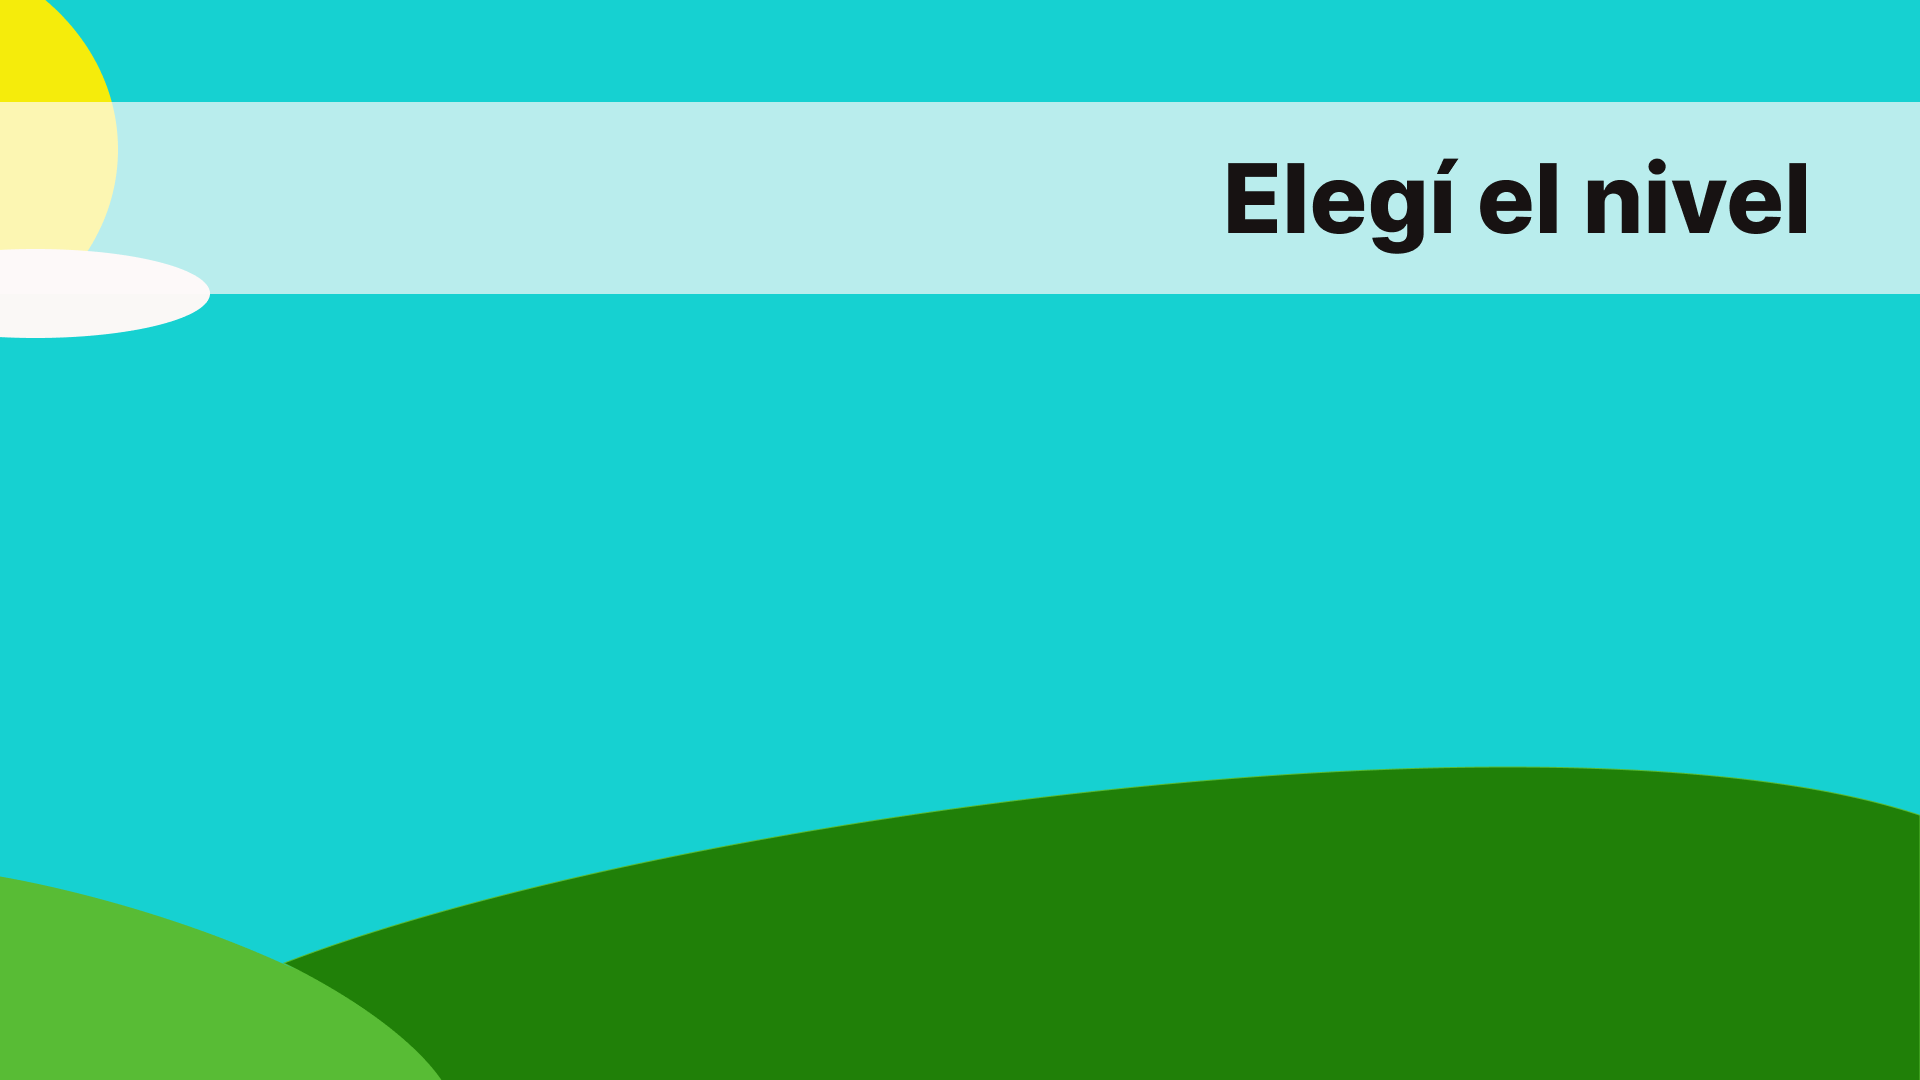
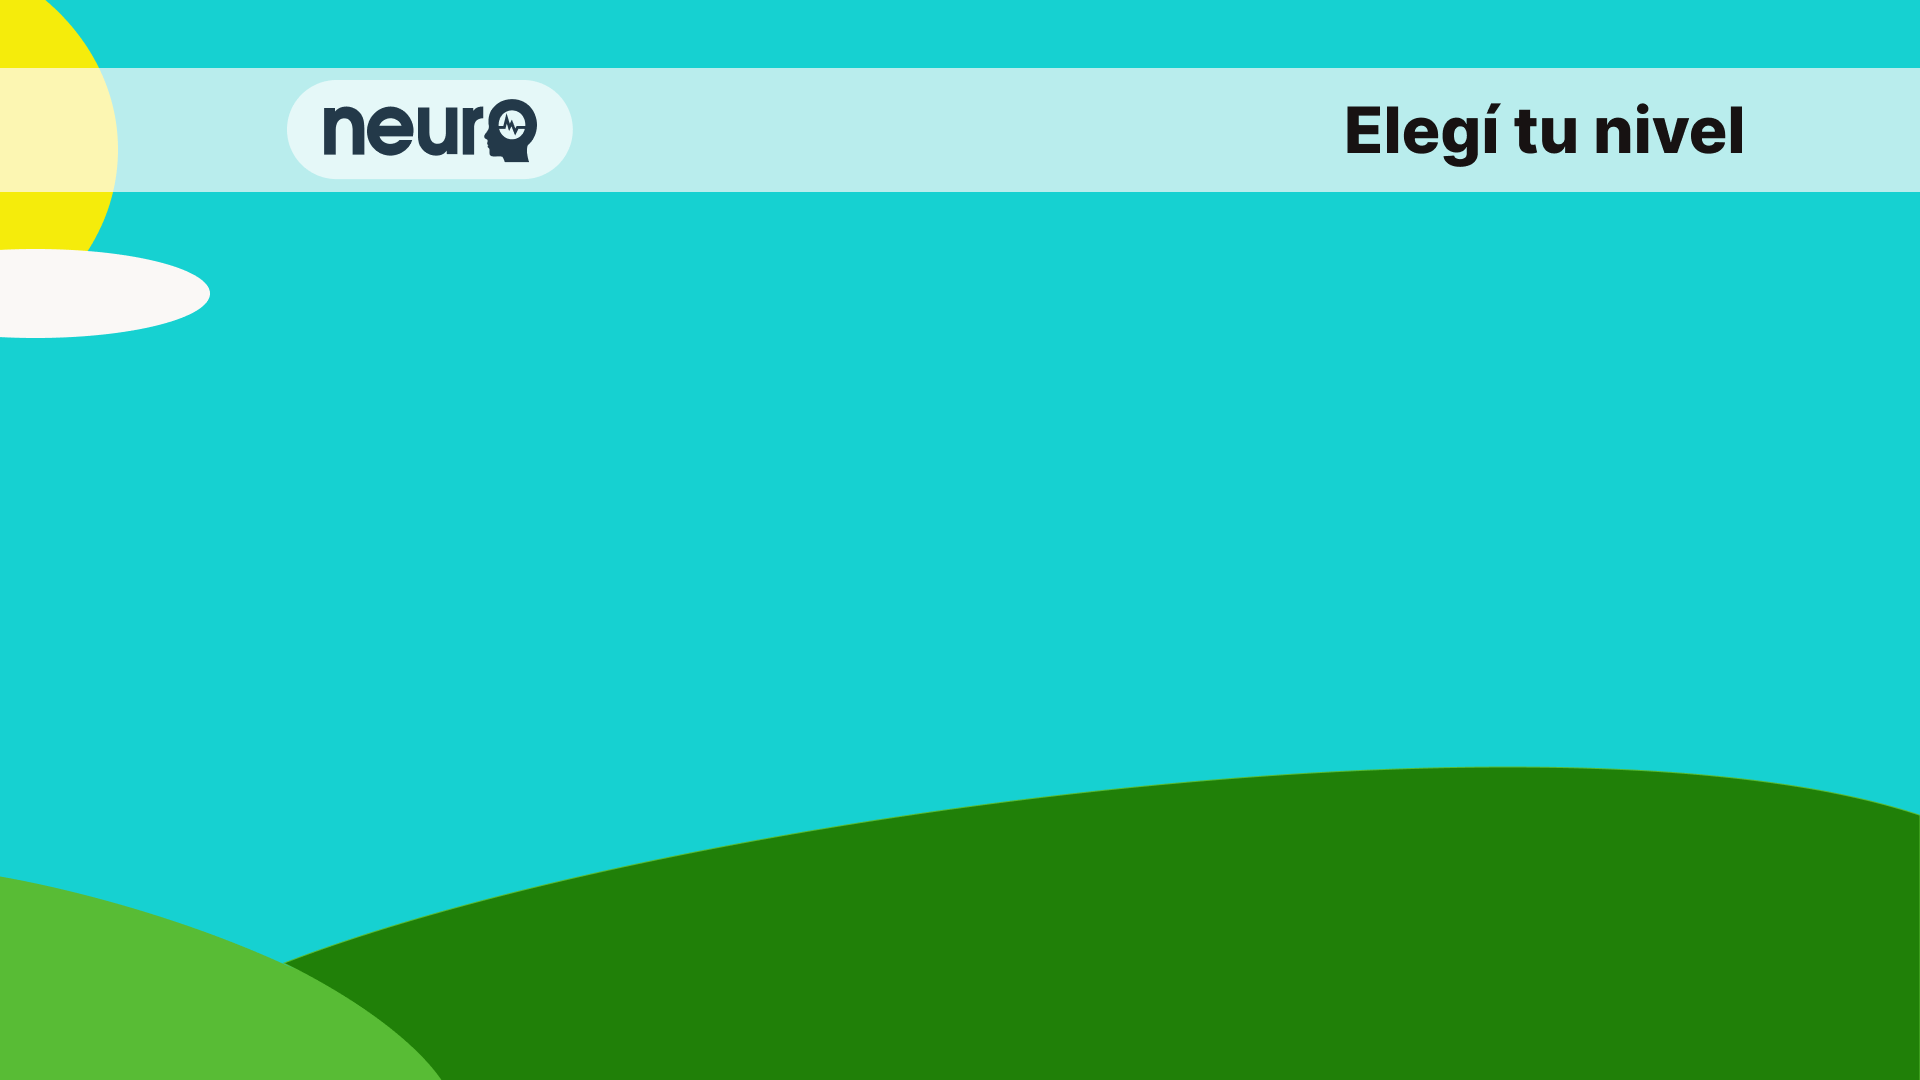
BASTA

Changed region(s): [[0.0, 0.0611, 1.0, 0.275]]

diff --git a/JUEGO 1/expli1.html b/JUEGO 1/expli1.html
@@ -5,24 +5,18 @@
     <meta http-equiv="X-UA-Compatible" content="IE=edge">
     <meta name="viewport" content="width=device-width, initial-scale=1.0">
     <title>Explicación 1</title>
-    <link rel="stylesheet" href="explli1.css">
-    <link rel="stylesheet" href="../general.css">
+    <link rel="stylesheet" href="../generalExpli.css">
 </head>
 <body>
     <div class="todo">
-<header>
-        <a href="../INICIO/menu1.html" class="volver"><img src="../—Pngtree—vector back icon_4190818.png" class="flechar"></a>
-</header>
+<header></header>
     <main>
-        <div class="titulo">
-            <h1>EXPLICACIÓN DEL JUEGO:</h1>
-        </div>
         <div class="video">
-            <video src="C:\Users\49318078\Downloads\istockphoto-1456799686-640_adpp_is.mp4" controls="true" height="400px"></video>
+            <video src="" controls="true" height="400px"></video>
         </div>    
     </main>
         <footer>
-        <a href="../JUEGO 1/niveles1.html" class="volver"><img src="../—Pngtree—vector back icon_4190818.png" class="flechab"></a>
+        <a href="../JUEGO 1/niveles1.html" class="volver"><button></button></a>
     </div>
         </footer>
 </body>

diff --git a/JUEGO 2/expli2.html b/JUEGO 2/expli2.html
@@ -5,14 +5,11 @@
     <meta http-equiv="X-UA-Compatible" content="IE=edge">
     <meta name="viewport" content="width=device-width, initial-scale=1.0">
     <title>Explicación 2</title>
-    <link rel="stylesheet" href="expli2.css">
-    <link rel="stylesheet" href="../general.css">
+    <link rel="stylesheet" href="../generalExpli.css">
 </head>
 <body>
     <div class="todo">
-<header>
-        <a href="../INICIO/menu1.html" class="volver"><img src="../—Pngtree—vector back icon_4190818.png" class="flechar"></a>
-</header>
+<header></header>
     <main>
         <div class="titulo">
             <h1>EXPLICACIÓN DEL JUEGO:</h1>
@@ -22,7 +19,7 @@
         </div>    
     </main>
         <footer>
-        <a href="../JUEGO 2/niveles2.html" class="volver"><img src="../—Pngtree—vector back icon_4190818.png" class="flechab"></a>
+        <a href="../JUEGO 2/niveles2.html" class="volver"><button></button></a>
     </div>
         </footer>
 </body>

diff --git a/JUEGO 3/expli3.html b/JUEGO 3/expli3.html
@@ -5,14 +5,11 @@
     <meta http-equiv="X-UA-Compatible" content="IE=edge">
     <meta name="viewport" content="width=device-width, initial-scale=1.0">
     <title>Explicación 3</title>
-    <link rel="stylesheet" href="expli3.css">
-    <link rel="stylesheet" href="../general.css">
+    <link rel="stylesheet" href="../generalExpli.css">
 </head>
 <body>
     <div class="todo">
-<header>
-        <a href="../INICIO/menu1.html" class="volver"><img src="../—Pngtree—vector back icon_4190818.png" class="flechar"></a>
-</header>
+<header></header>
     <main>
         <div class="titulo">
             <h1>EXPLICACIÓN DEL JUEGO:</h1>
@@ -22,7 +19,7 @@
         </div>    
     </main>
         <footer>
-        <a href="../JUEGO 3/niveles3.html" class="volver"><img src="../—Pngtree—vector back icon_4190818.png" class="flechab"></a>
+        <a href="../JUEGO 3/niveles3.html" class="volver"><button></button></a>
     </div>
         </footer>
 </body>

diff --git a/JUEGO 4/expli4.html b/JUEGO 4/expli4.html
@@ -5,14 +5,11 @@
     <meta http-equiv="X-UA-Compatible" content="IE=edge">
     <meta name="viewport" content="width=device-width, initial-scale=1.0">
     <title>Explicación 4</title>
-    <link rel="stylesheet" href="expli4.css">
-    <link rel="stylesheet" href="../general.css">
+    <link rel="stylesheet" href="../generalExpli.css">
 </head>
 <body>
     <div class="todo">
-<header>
-        <a href="../INICIO/menu1.html" class="volver"><img src="../—Pngtree—vector back icon_4190818.png" class="flechar"></a>
-</header>
+<header></header>
     <main>
         <div class="titulo">
             <h1>EXPLICACIÓN DEL JUEGO:</h1>
@@ -22,7 +19,7 @@
         </div>    
     </main>
         <footer>
-        <a href="../JUEGO 4/cuatro.html" class="volver"><img src="../—Pngtree—vector back icon_4190818.png" class="flechab"></a>
+        <a href="../JUEGO 4/cuatro.html" class="volver"><button></button></a>
     </div>
         </footer>
 </body>

diff --git a/JUEGO 6/expli6.html b/JUEGO 6/expli6.html
@@ -5,14 +5,11 @@
     <meta http-equiv="X-UA-Compatible" content="IE=edge">
     <meta name="viewport" content="width=device-width, initial-scale=1.0">
     <title>Explicación 6</title>
-    <link rel="stylesheet" href="expli6.css">
-    <link rel="stylesheet" href="../general.css">
+    <link rel="stylesheet" href="../generalExpli.css">
 </head>
 <body>
     <div class="todo">
-<header>
-        <a href="../INICIO/menu1.html" class="volver"><img src="../—Pngtree—vector back icon_4190818.png" class="flechar"></a>
-</header>
+<header></header>
     <main>
         <div class="titulo">
             <h1>EXPLICACIÓN DEL JUEGO:</h1>
@@ -22,7 +19,7 @@
         </div>    
     </main>
         <footer>
-        <a href="../JUEGO 6/seis.html" class="volver"><img src="../—Pngtree—vector back icon_4190818.png" class="flechab"></a>
+        <a href="../JUEGO 6/seis.html" class="volver"><button></button></a>
     </div>
         </footer>
 </body>

diff --git a/JUEGO 5/expli5.html b/JUEGO 5/expli5.html
@@ -5,14 +5,11 @@
     <meta http-equiv="X-UA-Compatible" content="IE=edge">
     <meta name="viewport" content="width=device-width, initial-scale=1.0">
     <title>Explicación 5</title>
-    <link rel="stylesheet" href="expli5.css">
-    <link rel="stylesheet" href="../general.css">
+    <link rel="stylesheet" href="../generalExpli.css">
 </head>
 <body>
     <div class="todo">
-<header>
-        <a href="../INICIO/menu1.html" class="volver"><img src="../—Pngtree—vector back icon_4190818.png" class="flechar"></a>
-</header>
+<header></header>
     <main>
         <div class="titulo">
         <h1>EXPLICACIÓN DEL JUEGO:</h1>
@@ -22,7 +19,7 @@
         </div>    
     </main>
         <footer>
-        <a href="../JUEGO 5/cinco.html" class="volver"><img src="../—Pngtree—vector back icon_4190818.png" class="flechab"></a>
+        <a href="../JUEGO 5/cinco.html" class="volver"><button></button></a>
     </div>
         </footer>
 </body>

diff --git a/general.css b/general.css
@@ -6,6 +6,7 @@
 header{
     width: 100vw;
     height: 15vh;
+
 }
 
 header a{
@@ -28,16 +29,19 @@ footer a{
 
 .flechar{
 
-    width: 7vw;
-    height: 12vh;
-    position: absolute;
-    top: 0;
-    left: 0;
-    
+    width: 90px; 
+    height: 70px;
+    background-color: white; 
+    padding: 9px 18px; 
+    border-radius: 25px;
+
 }
 
 .volver{
-    width: 0;
+    display: flex;
+    align-items: center;
+    padding-left: 23px;
+    padding-top: 34px;
 }
 .flechab {
 
@@ -47,11 +51,9 @@ footer a{
     bottom: 0;
     right: 0;
     transform: scale(-1);
-
 }
 
 .todo{
-
 height: 100vh;
 width: 100vw;
 display: flex;
@@ -62,3 +64,8 @@ justify-content: space-between;
 
 
 
+.flechar:hover {
+    border: solid rgba(000, 000, 000, 0.8); 
+    transform: scale(1.1); 
+    box-shadow: 0px 4px 8px rgba(0, 0, 0, 0.2); 
+}

diff --git a/generalExpli.css b/generalExpli.css
@@ -1,0 +1,36 @@
+main {
+    width: 100%; 
+    height: 70vh;
+}
+
+.titulo {
+    text-align: center;
+    font-size: 30px;
+    width: 100%; 
+    display: flex;
+    justify-content: center;
+    margin-top: -3%;
+}
+
+.video {
+    display: flex;
+    justify-content: center;
+    margin-top: 3%;
+}
+
+button{ 
+    padding: 12px;
+    background-color: #ff50a8;
+    color: white;
+    border: none;
+    border-radius: 5px;
+    font-size: 16px;
+    cursor: pointer;
+    transition: background-color 0.3s;
+}
+
+footer{
+    display: flex;
+    justify-content: flex-end;
+    padding-bottom: 10px;
+}

diff --git a/JUEGO 1/uno.html b/JUEGO 1/uno.html
@@ -9,7 +9,7 @@
 </head>
 <body>
     <header>
-        <a href="../JUEGO 1/niveles1.html" class="volver"><img src="../—Pngtree—vector back icon_4190818.png" class="flechar"></a>
+        <a href="../JUEGO 1/niveles1.html" class="volver"><img src="../fluent_arrow-up-12-filled.png" class="flechar"></a>
     </header>
     <p id="nivelEle"></p>
     <div class="divCajitas" id="divCajitas"></div>

diff --git a/JUEGO 4/cuatro.html b/JUEGO 4/cuatro.html
@@ -11,7 +11,7 @@
     
 <body id="body">
     <header>
-        <a href="../JUEGO 4/expli4.html" class="volver"><img src="../—Pngtree—vector back icon_4190818.png" class="flechar"></a>
+        <a href="../JUEGO 4/expli4.html" class="volver"><img src="../fluent_arrow-up-12-filled.png" class="flechar"></a>
     </header>
     <div class="contenedor">
         <div class="simon" id="simon"> 

diff --git a/JUEGO 6/seis.html b/JUEGO 6/seis.html
@@ -11,7 +11,7 @@
 </head>
 <body>
     <header>
-        <a href="../JUEGO 6/expli6.html" class="volver"><img src="../—Pngtree—vector back icon_4190818.png" class="flechar"></a>
+        <a href="../JUEGO 6/expli6.html" class="volver"><img src="../fluent_arrow-up-12-filled.png" class="flechar"></a>
     </header>
     <main>
         <h2 id="winner"></h2> 

diff --git a/JUEGO 3/tres.html b/JUEGO 3/tres.html
@@ -11,7 +11,7 @@
 </head>
 <body>
     <header>
-        <a href="../JUEGO 3/niveles3.html" class="volver"><img src="../—Pngtree—vector back icon_4190818.png" class="flechar"></a>
+        <a href="../JUEGO 3/niveles3.html" class="volver"><img src="../fluent_arrow-up-12-filled.png" class="flechar"></a>
     </header>
         <main>
         </main>
